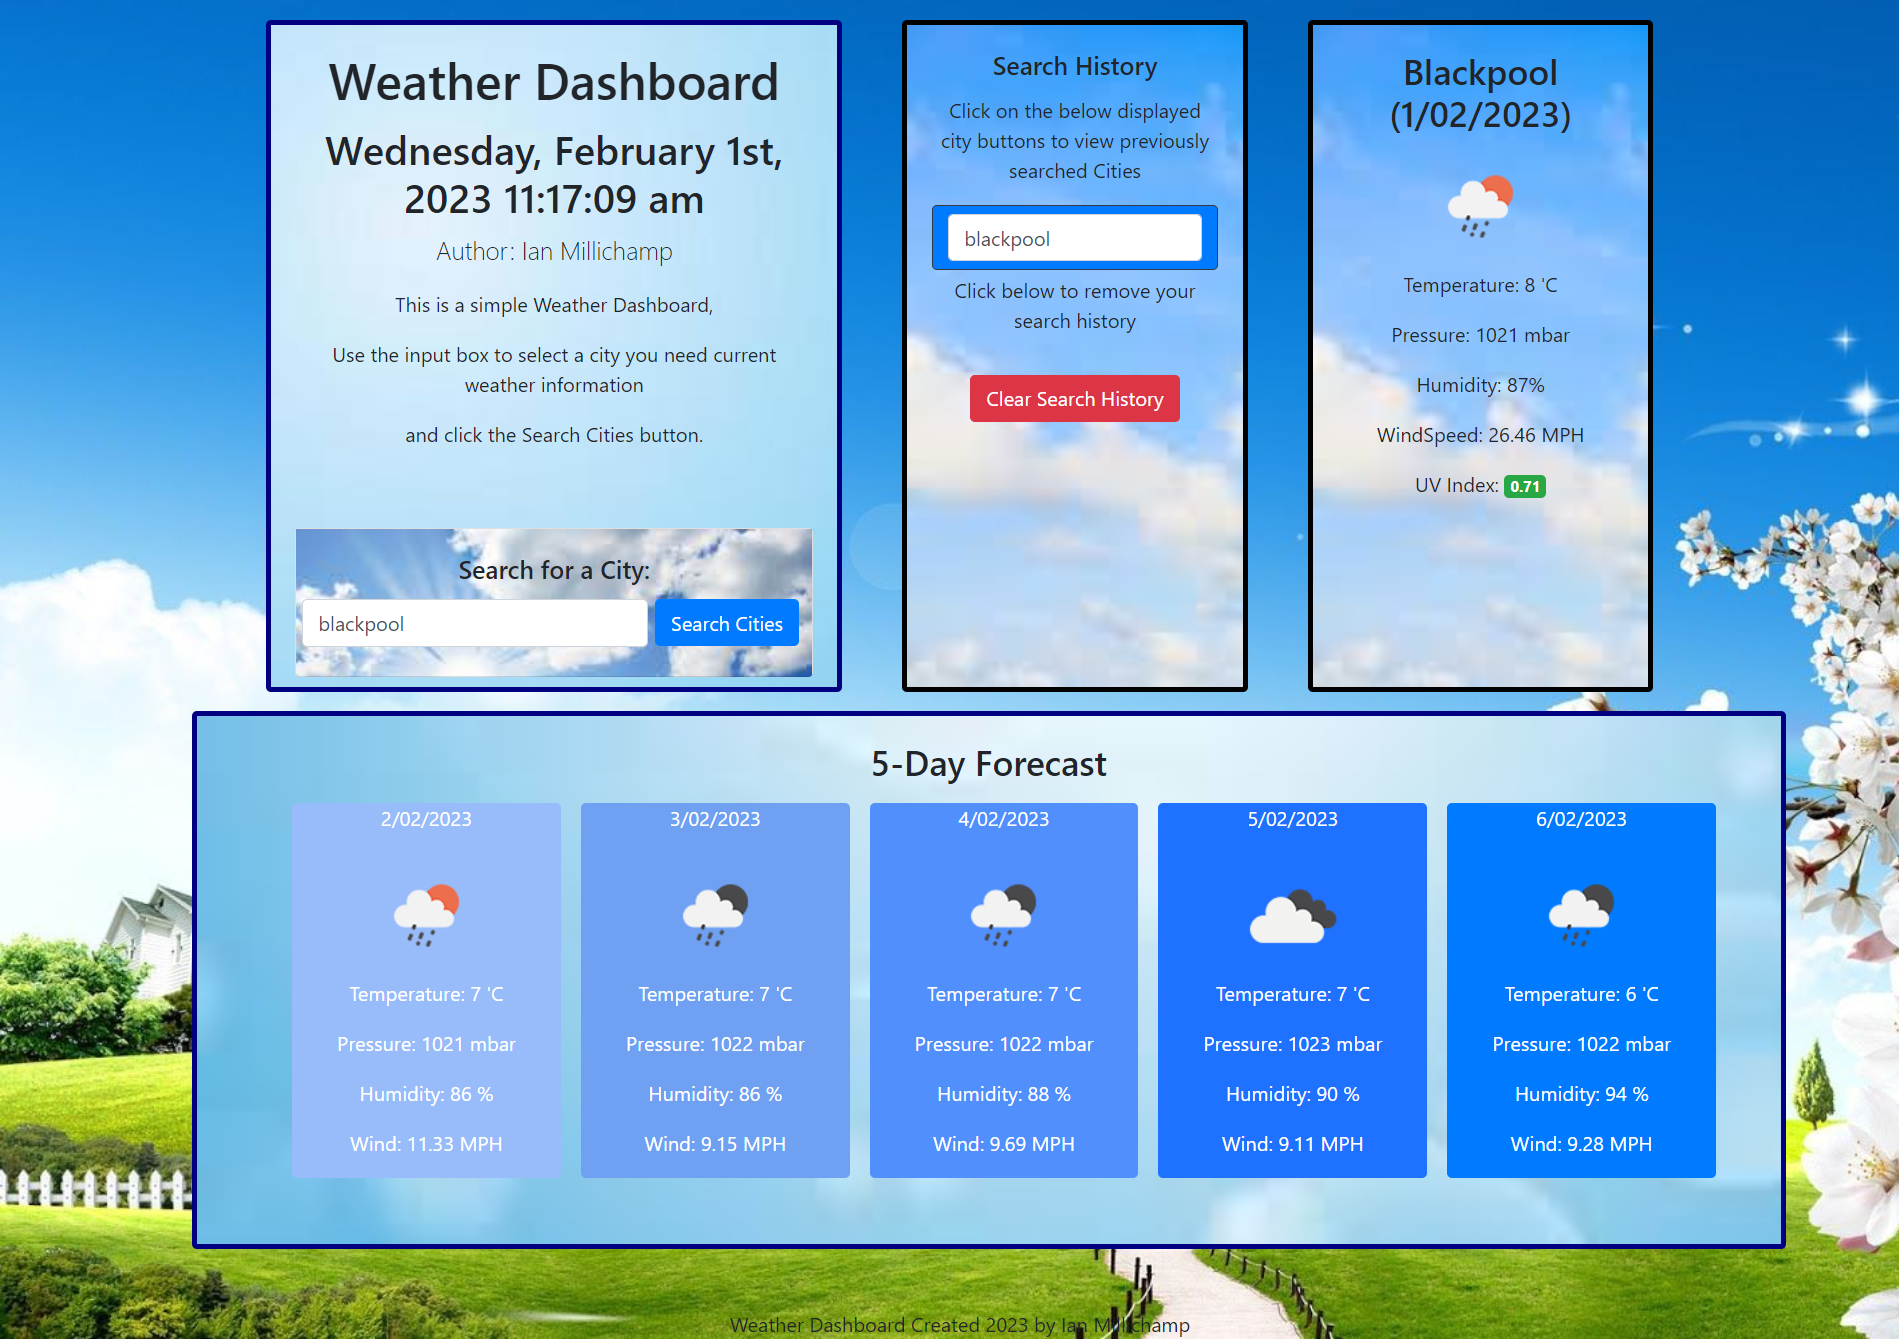
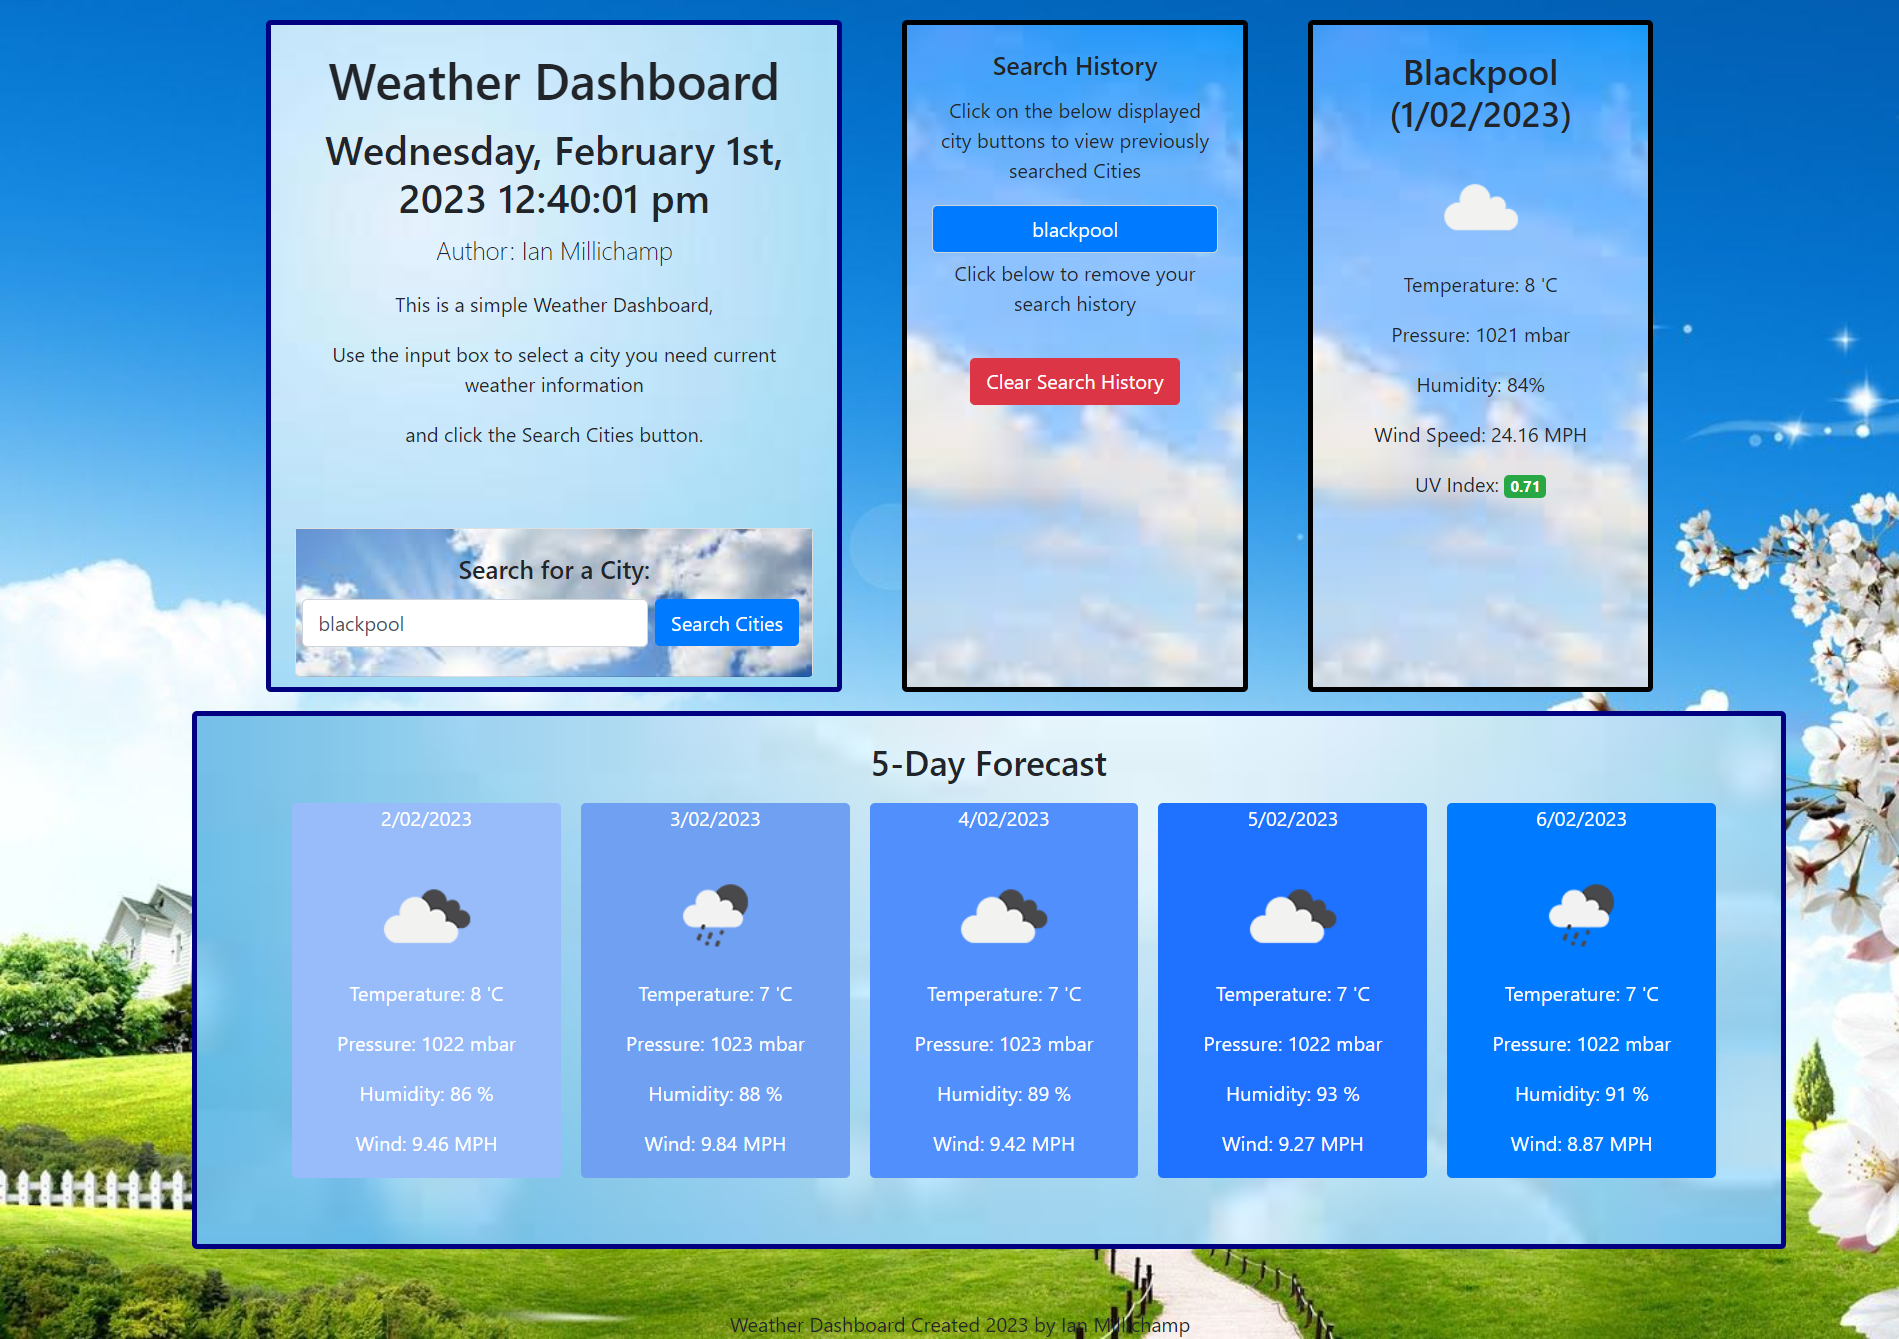
added new screenshots and fixed bug with rendering the search history

diff --git a/assets/js/index.js b/assets/js/index.js
@@ -217,7 +217,7 @@ $(document).ready(function () {
   function kelvinToCelsius(k) {
     return Math.floor(k - 273.15);
   }
-
+/** create function to render the search history */
   function renderSearchHistory() {
     historyEl.innerHTML = "";
     for (let i = 0; i < searchHistory.length; i++) {
